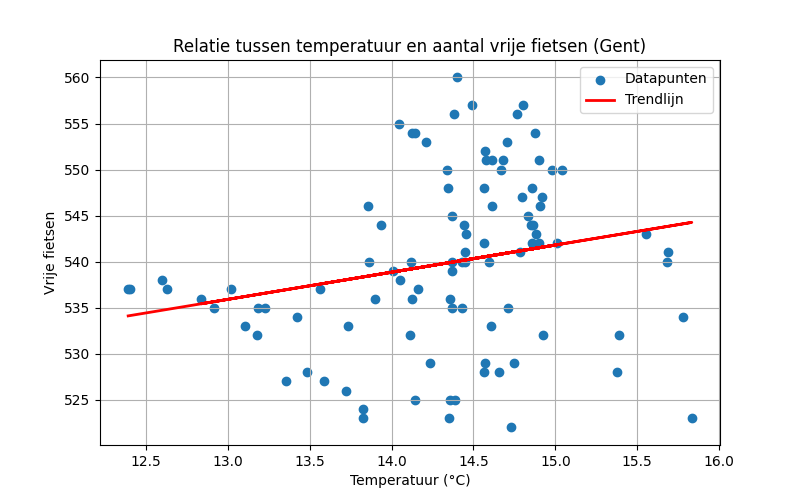
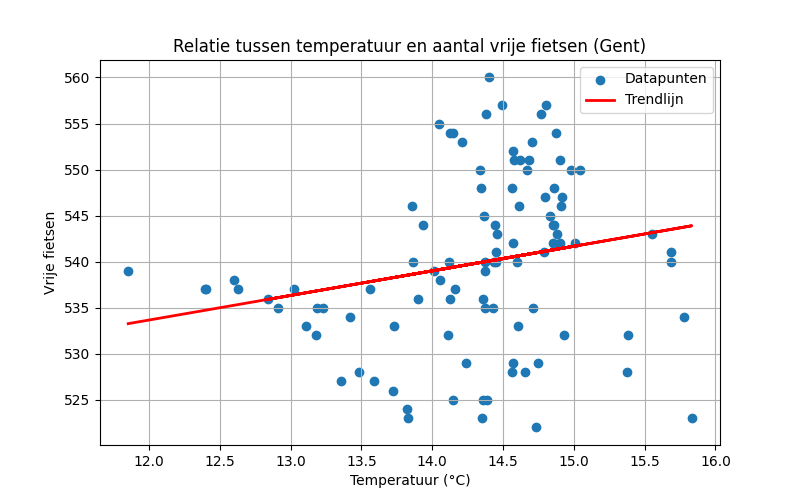
Automatische update 2025-11-15 22:30:16

diff --git a/reports/report.md b/reports/report.md
@@ -1,16 +1,16 @@
 # Data Workflow Rapport
 
-**Gegenereerd op:** 2025-11-15 22:15:12.374551
+**Gegenereerd op:** 2025-11-15 22:30:14.100381
 
 ## Grafiek: Vrije fietsen vs Temperatuur
 ![Fietsen vs Temp](fiets_vs_temp.png)
 
 ## Basisstatistieken
-- Gemiddelde temperatuur: 14.32 °C
+- Gemiddelde temperatuur: 14.30 °C
 - Gemiddeld aantal vrije fietsen: 540
 - Gemiddeld aantal fietsen overdag (07-19u): 538
 - Gemiddeld aantal fietsen ’s nachts (19-07u): 543
-- Correlatie: 0.23
+- Correlatie: 0.22
 
 ## Vrije fietsen per weekdag
 
